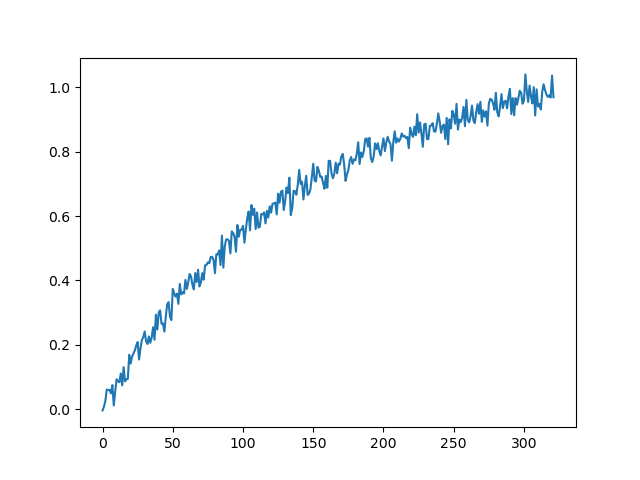
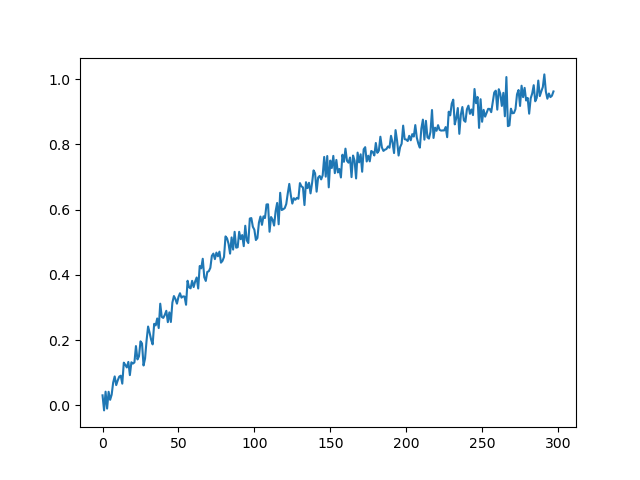
ошибка исправлена

diff --git a/scripts/talker.py b/scripts/talker.py
@@ -151,7 +151,7 @@ def talker():
         fi_course_filtered_arr.append(phi_xy_filtered)
 
         x_k_prev = x_k
-        y_k_prev = x_k
+        y_k_prev = y_k
         phi_xy_filtered_prev = phi_xy_filtered
 
         publish_str1 = "\nNO NOISE: {:.5f}".format(x_k) + ' ' + "{:.5f}".format(y_k) + ' ' + "{:.5f}".format(fi_k)
